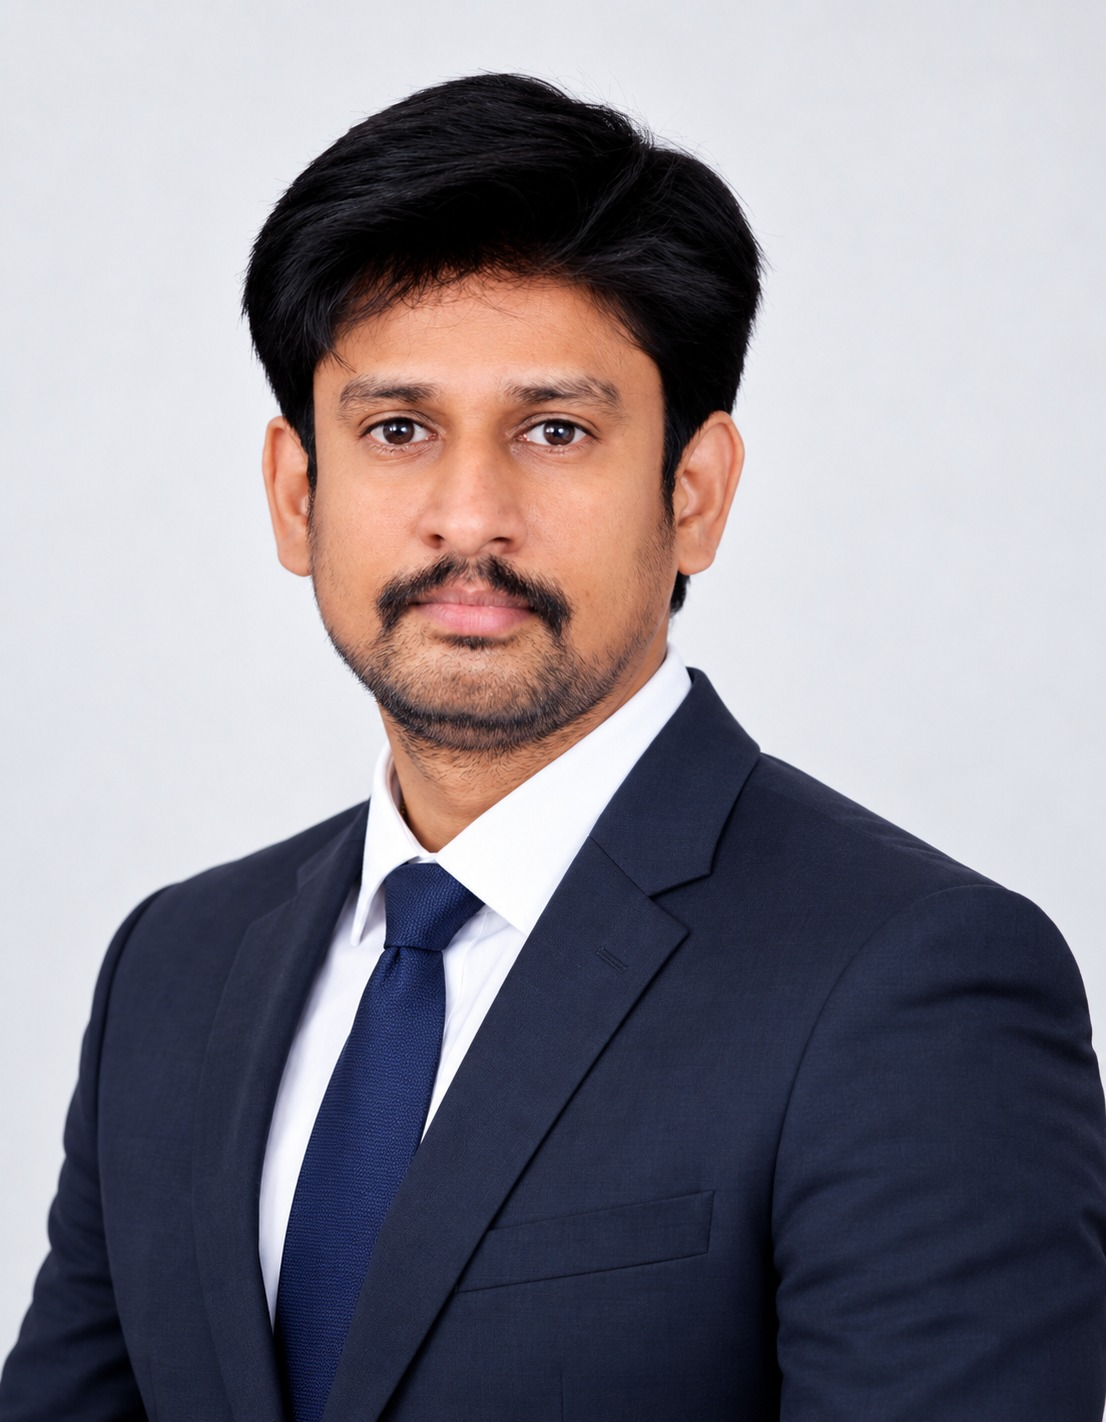
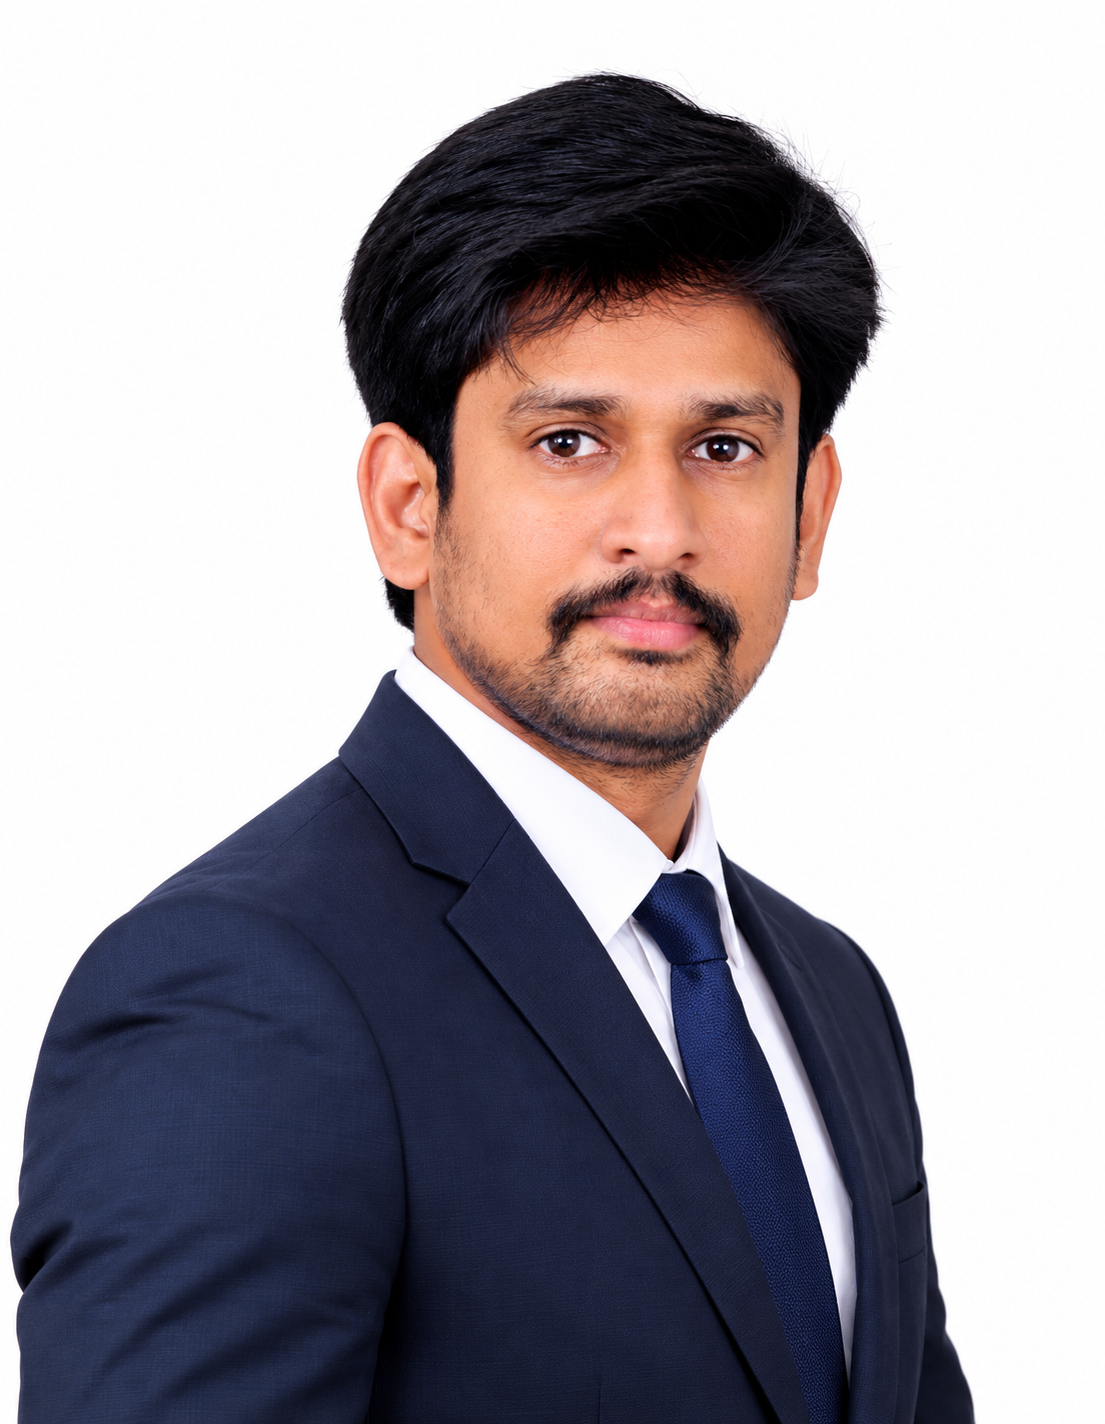
Technology chips-description updates

diff --git a/src/components/TechFlowTimeline.tsx b/src/components/TechFlowTimeline.tsx
@@ -209,15 +209,15 @@ export function TechFlowTimeline({
       <div className="mt-10 flex flex-wrap justify-center gap-3 sm:gap-4">
         <span className="inline-flex items-center gap-2 rounded-full border border-teal/25 bg-teal/8 px-4 py-1.5 text-xs font-semibold uppercase tracking-[0.15em] text-teal">
           <span className="h-2 w-2 rounded-full bg-teal" />
-          Technology captures
+          TECHNOLOGY ENABLES
         </span>
         <span className="inline-flex items-center gap-2 rounded-full border border-leaf/30 bg-leaf/10 px-4 py-1.5 text-xs font-semibold uppercase tracking-[0.15em] text-leaf">
           <span className="h-2 w-2 rounded-full bg-leaf" />
-          Engineering interprets
+          ENGINEERING INTERPRETS
         </span>
         <span className="inline-flex items-center gap-2 rounded-full border border-navy/20 bg-navy/6 px-4 py-1.5 text-xs font-semibold uppercase tracking-[0.15em] text-navy">
           <span className="h-2 w-2 rounded-full bg-navy" />
-          Windleaf delivers
+          WINDLEAF DELIVERS
         </span>
       </div>
     </div>

diff --git a/src/app/ai-automation-robotics/page.tsx b/src/app/ai-automation-robotics/page.tsx
@@ -50,7 +50,7 @@ export default function TechnologyPage() {
 
         <div className="mt-8 rounded-2xl border border-hairline bg-mist/60 px-6 py-5 text-center">
           <p className="font-display text-base font-semibold leading-relaxed text-navy sm:text-lg">
-            Technology helps us capture and analyse information. Our engineers turn that information into independent, technically sound decisions and practical solutions.
+            We use advanced inspection technologies, engineering analysis and field data to understand blade condition. Our engineers interpret the evidence and deliver independent, technically sound recommendations and practical solutions.
           </p>
         </div>
       </Section>
